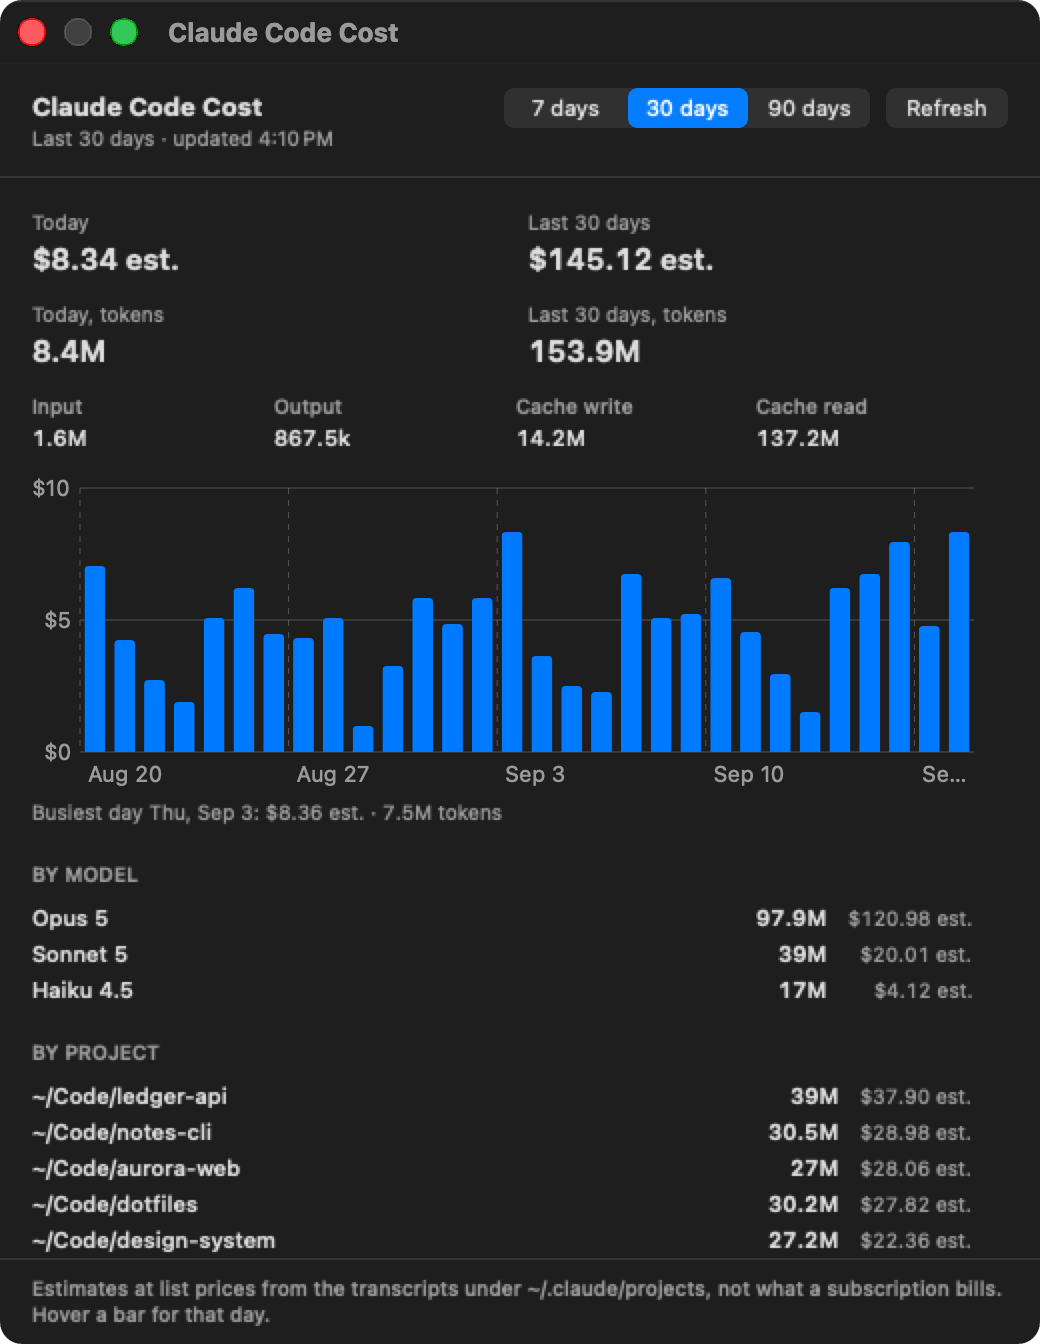
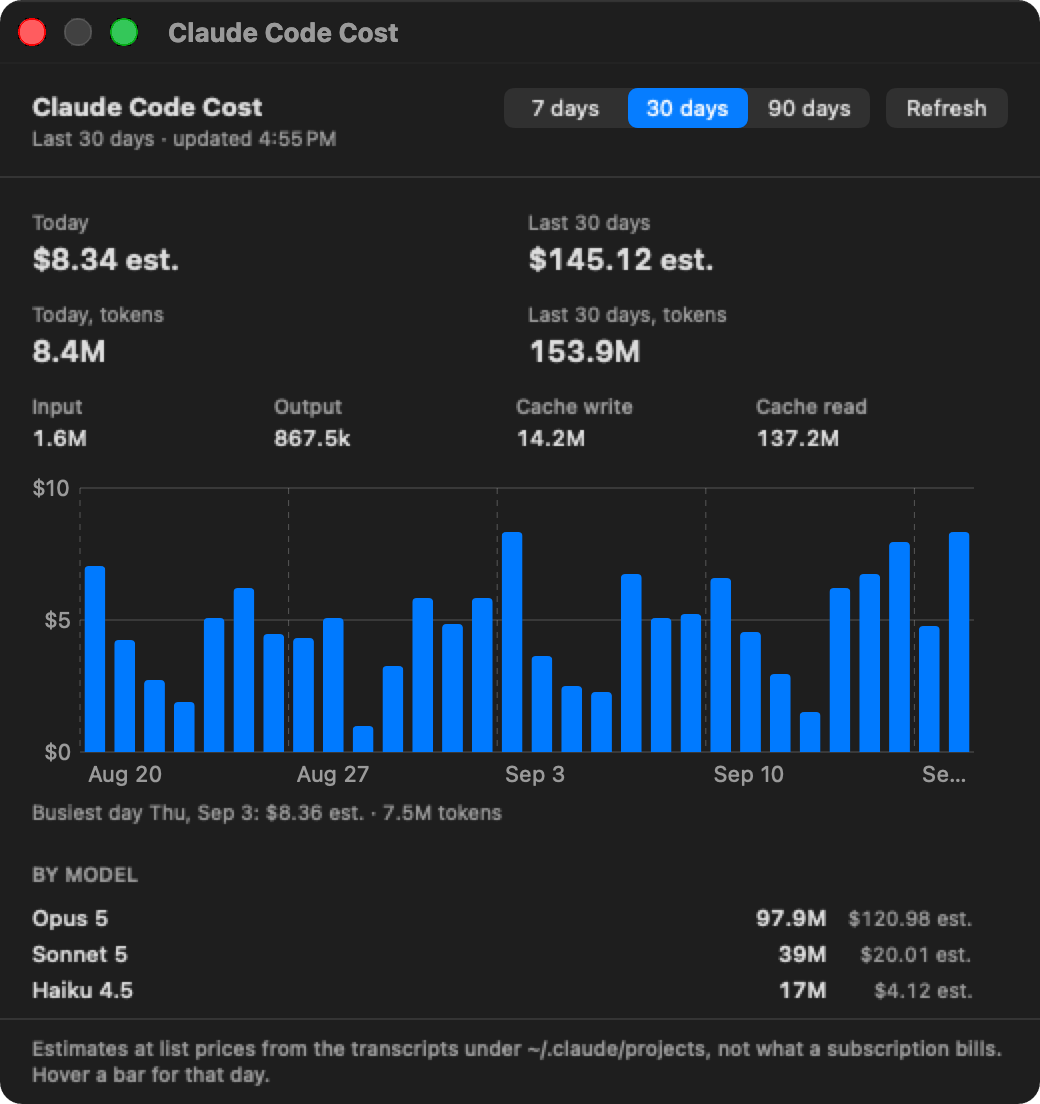
Drop the by-project cost split and show only Claude Code in the README
The Cost window's BY PROJECT rows (one per session folder) added nothing
over the Sessions window, so CostReport, TokenLedger and CostView lose the
folder plumbing; SessionMeta.cwd stays for the Sessions window and the
cache shape is unchanged.

The README now shows the Claude Code surfaces only: the Antigravity tab
draws the same views with its own numbers, so its six screenshots go and
the renderer draws the Claude tab alone.

diff --git a/Sources/AIUsageBar/CostReport.swift b/Sources/AIUsageBar/CostReport.swift
@@ -2,8 +2,7 @@ import Foundation
 
 /// The cost window's numbers, derived from the token records the store holds: one bucket per
 /// calendar day for the chart (empty days included, so the bars line up), the same days summed
-/// per model and per project folder, and today on its own. Every figure is the list-price
-/// estimate the cost rows use.
+/// per model, and today on its own. Every figure is the list-price estimate the cost rows use.
 struct CostReport: Equatable {
     struct Day: Equatable, Identifiable {
         var start: Date
@@ -17,14 +16,6 @@ struct CostReport: Equatable {
         var id: String { model }
     }
 
-    /// One folder's share: the working directory of every session that ran there. `folder` is
-    /// nil for records whose session the ledger cannot place (a transcript with no cwd line).
-    struct ProjectShare: Equatable, Identifiable {
-        var folder: String?
-        var totals: TokenTotals
-        var id: String { folder ?? "" }
-    }
-
     /// Calendar days the popover's cost row and the default report cover, today included.
     static let dayCount = 30
 
@@ -32,24 +23,19 @@ struct CostReport: Equatable {
     var days: [Day]
     /// Costliest first; models the price table does not know sort by tokens after the priced ones.
     var models: [ModelShare]
-    /// Costliest first, same tie-breaks as `models`; empty when the ledger has no folders to offer.
-    var projects: [ProjectShare]
     var today: TokenTotals
     /// Every day in `days` summed.
     var total: TokenTotals
 
     var start: Date { days.first?.start ?? .distantPast }
 
-    /// `folders` maps a session id to the folder it ran in; nil (the Antigravity ledger) leaves
-    /// `projects` empty, while a session missing from the map lands in the nil-folder share.
     static func build(_ records: [TokenRecord], now: Date = Date(), calendar: Calendar = .current,
-                      dayCount: Int = CostReport.dayCount, folders: [String: String]? = nil) -> CostReport
+                      dayCount: Int = CostReport.dayCount) -> CostReport
     {
         let todayStart = calendar.startOfDay(for: now)
         let starts = (0..<dayCount).reversed().compactMap { calendar.date(byAdding: .day, value: -$0, to: todayStart) }
         var byDay: [Date: TokenTotals] = [:]
         var byModel: [String: TokenTotals] = [:]
-        var byFolder: [String?: TokenTotals] = [:]
         var today = TokenTotals()
         var total = TokenTotals()
 
@@ -59,9 +45,6 @@ struct CostReport: Equatable {
             guard let first = starts.first, day >= first, day <= todayStart else { continue }
             byDay[day, default: TokenTotals()].add(record)
             byModel[record.model, default: TokenTotals()].add(record)
-            if let folders {
-                byFolder[record.sessionId.flatMap { folders[$0] }, default: TokenTotals()].add(record)
-            }
             total.add(record)
             if day == todayStart { today.add(record) }
         }
@@ -69,13 +52,8 @@ struct CostReport: Equatable {
         let models = byModel.map { ModelShare(model: $0.key, totals: $0.value) }.sorted { a, b in
             rank(a.totals, a.model, before: b.totals, b.model)
         }
-        // A nil folder names nothing, so it sorts last among equals.
-        let projects = byFolder.map { ProjectShare(folder: $0.key, totals: $0.value) }.sorted { a, b in
-            rank(a.totals, a.folder ?? "\u{10FFFF}", before: b.totals, b.folder ?? "\u{10FFFF}")
-        }
         return CostReport(days: starts.map { Day(start: $0, totals: byDay[$0] ?? TokenTotals()) },
                           models: models,
-                          projects: projects,
                           today: today,
                           total: total)
     }

diff --git a/Tests/AIUsageBarTests/AIUsageBarTests.swift b/Tests/AIUsageBarTests/AIUsageBarTests.swift
@@ -1587,7 +1587,6 @@ final class CostReportTests: XCTestCase {
         let report = CostReport.build([], now: now, calendar: utc)
         XCTAssertEqual(report.days.count, 30)
         XCTAssertTrue(report.models.isEmpty)
-        XCTAssertTrue(report.projects.isEmpty)
         XCTAssertEqual(report.total, TokenTotals())
         XCTAssertEqual(report.today, TokenTotals())
     }
@@ -1612,34 +1611,6 @@ final class CostReportTests: XCTestCase {
         XCTAssertEqual(TokenStore.retention, 91 * 86400)
         XCTAssertEqual(CostRange.allCases.map(\.axisStride), [1, 7, 14])
         XCTAssertEqual(CostRange.quarter.title, "90 days")
-    }
-
-    func testProjectsGroupBySessionFolderCostliestFirst() {
-        let records = [
-            record(1, model: "claude-opus-5", session: "a"),      // $0.0075 in ~/x
-            record(2, model: "claude-sonnet-5", session: "a"),    // $0.003 in ~/x
-            record(1, model: "claude-sonnet-5", session: "b"),    // $0.003 in ~/y
-            record(1, model: "claude-sonnet-5", session: "c"),    // $0.003, session without a cwd
-            record(1, model: "claude-sonnet-5", session: nil),    // $0.003, no session at all
-            record(1, model: "claude-sonnet-5", session: "d"),    // $0.003 in ~/y again
-            record(40, model: "claude-opus-5", session: "b"),     // outside the window
-        ]
-        let folders = ["a": "/Users/sam/x", "b": "/Users/sam/y", "d": "/Users/sam/y"]
-        let report = CostReport.build(records, now: now, calendar: utc, folders: folders)
-        XCTAssertEqual(report.projects.map(\.folder), ["/Users/sam/x", "/Users/sam/y", nil])
-        XCTAssertEqual(report.projects.map(\.totals.tokens), [2200, 2200, 2200])
-        XCTAssertEqual(report.projects[0].totals.cost, 0.0105, accuracy: 1e-9)
-        XCTAssertEqual(report.projects[1].totals.cost, 0.006, accuracy: 1e-9)
-        XCTAssertEqual(report.projects.reduce(0) { $0 + $1.totals.tokens }, report.total.tokens)
-        XCTAssertEqual(report.projects.map(\.id), ["/Users/sam/x", "/Users/sam/y", ""])
-    }
-
-    func testProjectsStayEmptyWithoutFolders() {
-        let report = CostReport.build([record(0, session: "a"), record(1)], now: now, calendar: utc)
-        XCTAssertTrue(report.projects.isEmpty)
-        XCTAssertEqual(report.total.tokens, 2200)
-        XCTAssertEqual(CostReport.build([record(0, session: "a")], now: now, calendar: utc, folders: [:])
-                           .projects.map(\.folder), [nil])
     }
 
     func testShareText() {
@@ -1723,22 +1694,6 @@ final class SessionScanTests: XCTestCase {
         XCTAssertEqual(sessions.map(\.sessionId), ["a"])
         XCTAssertEqual(sessions[0].lastPrompt?.count, 121)
         XCTAssertTrue(sessions[0].lastPrompt!.hasSuffix("…"))
-    }
-
-    @MainActor func testStoreOffersSessionFoldersToTheCostReport() async throws {
-        let root = try tempTranscriptRoot()
-        try writeTranscript(root, "p/a.jsonl",
-            assistantLine(id: "msg_a1", in: 10, out: 10, session: "a", cwd: "/Users/sam/x")
-            + assistantLine(id: "msg_a2", in: 20, out: 20, session: "a"))
-        try writeTranscript(root, "p/b.jsonl", assistantLine(id: "msg_b1", in: 1, out: 1, session: "b", cwd: nil))
-        let store = TokenStore()
-        store.scanner = TokenScanner(root: root, cacheURL: nil)
-        await store.refresh(reason: "test")
-        XCTAssertEqual(store.sessionFolders, ["a": "/Users/sam/x"])
-        let report = store.costReport(range: .week)
-        XCTAssertEqual(report.days.count, 7)
-        XCTAssertEqual(report.projects.map(\.folder), ["/Users/sam/x", nil])
-        XCTAssertEqual(report.projects.map(\.totals.tokens), [60, 2])
     }
 
     func testSessionMetaSurvivesTheCache() async throws {

diff --git a/Sources/AIUsageBar/Views/CostView.swift b/Sources/AIUsageBar/Views/CostView.swift
@@ -3,8 +3,8 @@ import SwiftUI
 
 /// The cost window: today and the last 7, 30 or 90 days from one ledger (Claude Code's
 /// transcripts or Antigravity's conversations), a bar per day, and the same days split by
-/// model and, for Claude Code, by the folder each session ran in. Hovering a bar puts that
-/// day's numbers under the chart. Every figure is the list-price estimate the popover's cost rows use.
+/// model. Hovering a bar puts that day's numbers under the chart. Every figure is the
+/// list-price estimate the popover's cost rows use.
 struct CostView: View {
     var tokens: any TokenLedger
     var onRefresh: () -> Void
@@ -12,11 +12,7 @@ struct CostView: View {
     @AppStorage(Preferences.Key.costRange) private var range: CostRange = .month
     @State private var now = Date()
     @State private var hovered: Date?
-    @State private var allProjects = false
     private let tick = Timer.publish(every: 60, on: .main, in: .common).autoconnect()
-
-    /// Project rows shown before "Show all" is asked for.
-    static let projectPreview = 8
 
     private var report: CostReport { tokens.costReport(now: now, range: range) }
 
@@ -35,7 +31,6 @@ struct CostView: View {
                         stats(report)
                         chart(report)
                         models(report)
-                        projects(report)
                     }
                     .padding(16)
                 }
@@ -198,32 +193,6 @@ struct CostView: View {
                                  totals: share.totals,
                                  detail: share.model)
                     }
-                }
-            }
-        }
-    }
-
-    // MARK: - projects
-
-    /// The folder each session ran in, costliest first; the first eight, then all on request.
-    @ViewBuilder private func projects(_ report: CostReport) -> some View {
-        if !report.projects.isEmpty {
-            let shown = allProjects ? report.projects : Array(report.projects.prefix(Self.projectPreview))
-            VStack(alignment: .leading, spacing: 8) {
-                Text("BY PROJECT").font(.caption2.weight(.semibold)).foregroundStyle(.secondary)
-                Grid(alignment: .leading, horizontalSpacing: 10, verticalSpacing: 4) {
-                    ForEach(shown) { share in
-                        TokenRow(title: share.folder.map { SessionText.folder($0) } ?? "Unknown folder",
-                                 totals: share.totals,
-                                 detail: share.folder ?? "Sessions whose transcript never said where they ran")
-                    }
-                }
-                if report.projects.count > Self.projectPreview {
-                    Button(allProjects ? "Show fewer" : "Show all \(report.projects.count)") {
-                        allProjects.toggle()
-                    }
-                    .buttonStyle(.link)
-                    .font(.caption)
                 }
             }
         }

diff --git a/Sources/AIUsageBar/Renderer.swift b/Sources/AIUsageBar/Renderer.swift
@@ -72,20 +72,18 @@ enum ScreenshotRenderer {
             written.append(file)
         }
 
-        for tab in UsageTab.allCases {
-            installDefaults(tab: tab)
-            try write(menuBar(stores, tab: tab, clock: fixture.clock, appearance: appearance), "menubar-\(tab.rawValue)")
-            try write(try await popover(stores, appearance: appearance), "popover-\(tab.rawValue)")
-        }
+        // The Antigravity tab draws the same surfaces with its own numbers, so the README shows
+        // Claude Code only.
+        let tab = UsageTab.claude
+        installDefaults(tab: tab)
+        try write(menuBar(stores, tab: tab, clock: fixture.clock, appearance: appearance), "menubar-\(tab.rawValue)")
+        try write(try await popover(stores, appearance: appearance), "popover-\(tab.rawValue)")
         try write(try await window(AnyView(SessionsView(tokens: stores.tokens, onRefresh: {}, onOpened: {})),
                                    title: "Claude Code Sessions", size: NSSize(width: 660, height: 380),
                                    appearance: appearance), "sessions")
         try write(try await window(AnyView(CostView(tokens: stores.tokens, onRefresh: {})),
-                                   title: "\(TokenProduct.claudeCode.name) Cost", size: NSSize(width: 520, height: 640),
+                                   title: "\(TokenProduct.claudeCode.name) Cost", size: NSSize(width: 520, height: 520),
                                    appearance: appearance), "cost-claude")
-        try write(try await window(AnyView(CostView(tokens: stores.antigravityTokens, onRefresh: {})),
-                                   title: "\(TokenProduct.antigravity.name) Cost", size: NSSize(width: 520, height: 520),
-                                   appearance: appearance), "cost-antigravity")
         for file in written { print(file + ".png") }
     }
 
@@ -327,7 +325,7 @@ final class SilentNotifier: Notifier {
 /// naturally whenever they are rendered. Deterministic: the same `now` gives the same picture.
 struct ScreenshotFixture {
     var now: Date
-    /// Folders the sessions "ran in", under the renderer's home so the cost window shows `~/...`.
+    /// Folders the sessions "ran in", under the renderer's home; the Sessions window shows `~/...`.
     var home: String = NSHomeDirectory()
 
     let plan = "max"

diff --git a/Sources/AIUsageBar/TokenLedger.swift b/Sources/AIUsageBar/TokenLedger.swift
@@ -11,9 +11,6 @@ protocol TokenLedger: AnyObject, Observable {
     var records: [TokenRecord] { get }
     var lastScanned: Date? { get }
     var error: String? { get }
-    /// Session id -> the folder that session ran in, for the cost window's By project rows;
-    /// nil when the product has no folders to speak of.
-    var sessionFolders: [String: String]? { get }
     func refresh(reason: String) async
 }
 
@@ -23,7 +20,7 @@ extension TokenLedger {
     }
 
     func costReport(now: Date = Date(), range: CostRange = .month) -> CostReport {
-        CostReport.build(records, now: now, dayCount: range.days, folders: sessionFolders)
+        CostReport.build(records, now: now, dayCount: range.days)
     }
 }
 

diff --git a/Tests/AIUsageBarTests/RendererTests.swift b/Tests/AIUsageBarTests/RendererTests.swift
@@ -54,10 +54,6 @@ final class RendererTests: XCTestCase {
             XCTAssertNotNil(folder, "record \(record.timestamp) has no session folder")
             XCTAssertTrue(folder?.hasPrefix("/Users/someone/Code/") ?? false)
         }
-        // So the cost window's BY PROJECT list has no "Unknown folder" row.
-        let report = CostReport.build(f.claudeRecords, now: now, folders: folders.compactMapValues { $0 })
-        XCTAssertEqual(report.projects.count, ScreenshotFixture.projects.count)
-        XCTAssertFalse(report.projects.contains { $0.folder == nil })
     }
 
     @MainActor func testRecordsStayInsideTheChartWindow() {

diff --git a/Sources/AIUsageBar/Views/PopoverView.swift b/Sources/AIUsageBar/Views/PopoverView.swift
@@ -199,7 +199,7 @@ struct PopoverView: View {
         }
         .buttonStyle(.plain)
         .accessibilityLabel("Cost")
-        .help("Open a window with a bar per day for the last 7, 30 or 90 days and the split by model and project")
+        .help("Open a window with a bar per day for the last 7, 30 or 90 days and the split by model")
     }
 
     /// One line that opens the sessions window; the counts come from Claude Code's session registry.

diff --git a/Sources/AIUsageBar/AntigravityTokenStore.swift b/Sources/AIUsageBar/AntigravityTokenStore.swift
@@ -9,8 +9,6 @@ final class AntigravityTokenStore: TokenLedger {
     private(set) var records: [TokenRecord] = []
     private(set) var lastScanned: Date?
     private(set) var error: String?
-    /// Antigravity conversations are not tied to a folder, so the cost window shows no projects.
-    let sessionFolders: [String: String]? = nil
 
     var scanner = AntigravityTokenScanner()
 

diff --git a/Sources/AIUsageBar/TokenStore.swift b/Sources/AIUsageBar/TokenStore.swift
@@ -77,9 +77,6 @@ final class TokenStore: TokenLedger {
             ?? calendar.startOfDay(for: now)
     }
 
-    /// Every retained session that said where it ran.
-    var sessionFolders: [String: String]? { sessions.compactMapValues(\.cwd) }
-
     var openCount: Int { live.count }
     var busyCount: Int { live.filter(\.isBusy).count }
 

diff --git a/README.md b/README.md
@@ -2,22 +2,18 @@
 
 [![CI](https://github.com/DragonF1/AIUsageBar/actions/workflows/ci.yml/badge.svg)](https://github.com/DragonF1/AIUsageBar/actions/workflows/ci.yml)
 
-macOS menu bar app showing your Claude subscription usage (5-hour session, weekly, per-model) with colored progress bars, plus the Anthropic status page incident banner. A second tab shows Google Antigravity's four limits the same way: weekly and five-hour for the Gemini models, weekly and five-hour for the Claude and GPT models, with the same kind of banner fed by Google Cloud's status dashboard. Refreshes every 5 minutes. The menu bar follows the selected tab: `5h% / weekly%` next to the Claude starburst, or the Gemini group's `5h% / weekly%` next to the Antigravity arch, with the icon colored by whichever bar is closer to its cap (or by the window you pick). Both tabs also count the tokens the product spent on this Mac (today, this week, last 30 days, with a list-price estimate) from its local files, and open a cost window with a daily chart over 7, 30 or 90 days and a split by model and, for Claude Code, by project folder. Every row carries a pace forecast, and macOS notifications warn when a window passes a threshold, runs out, is on a pace to run out, or resets after a warning.
+macOS menu bar app showing your Claude subscription usage (5-hour session, weekly, per-model) with colored progress bars, plus the Anthropic status page incident banner. A second tab shows Google Antigravity's four limits the same way: weekly and five-hour for the Gemini models, weekly and five-hour for the Claude and GPT models, with the same kind of banner fed by Google Cloud's status dashboard. Refreshes every 5 minutes. The menu bar follows the selected tab: `5h% / weekly%` next to the Claude starburst, or the Gemini group's `5h% / weekly%` next to the Antigravity arch, with the icon colored by whichever bar is closer to its cap (or by the window you pick). Both tabs also count the tokens the product spent on this Mac (today, this week, last 30 days, with a list-price estimate) from its local files, and open a cost window with a daily chart over 7, 30 or 90 days and a split by model. Every row carries a pace forecast, and macOS notifications warn when a window passes a threshold, runs out, is on a pace to run out, or resets after a warning.
 
 No cookie scraping. It reads the OAuth token Claude Code already keeps in your Keychain and asks Anthropic's usage endpoint directly, the same data `claude /usage` shows.
 
 ## Screenshots
 
-The menu bar item on either tab, and the popover behind it:
+The menu bar item and the popover behind it (the Antigravity tab draws the same surfaces with its own numbers):
 
 <p>
 <picture>
   <source media="(prefers-color-scheme: dark)" srcset="docs/screenshots/menubar-claude-dark.png">
   <img src="docs/screenshots/menubar-claude-light.png" width="310" alt="Menu bar with the Claude starburst, 34% / 58%">
-</picture>
-<picture>
-  <source media="(prefers-color-scheme: dark)" srcset="docs/screenshots/menubar-antigravity-dark.png">
-  <img src="docs/screenshots/menubar-antigravity-light.png" width="310" alt="Menu bar with the Antigravity arch, 12% / 31%">
 </picture>
 </p>
 <p>
@@ -25,13 +21,9 @@ The menu bar item on either tab, and the popover behind it:
   <source media="(prefers-color-scheme: dark)" srcset="docs/screenshots/popover-claude-dark.png">
   <img src="docs/screenshots/popover-claude-light.png" width="300" alt="Claude Code tab: 5-hour, weekly and Opus bars with pace lines, extra usage, cost rows, sessions, status card">
 </picture>
-<picture>
-  <source media="(prefers-color-scheme: dark)" srcset="docs/screenshots/popover-antigravity-dark.png">
-  <img src="docs/screenshots/popover-antigravity-light.png" width="300" alt="Antigravity tab: Gemini and Claude/GPT weekly and 5-hour bars, cost rows, Google Cloud status card">
-</picture>
 </p>
 
-The sessions window and the two cost windows:
+The sessions window and the cost window:
 
 <p>
 <picture>
@@ -42,11 +34,7 @@ The sessions window and the two cost windows:
 <p>
 <picture>
   <source media="(prefers-color-scheme: dark)" srcset="docs/screenshots/cost-claude-dark.png">
-  <img src="docs/screenshots/cost-claude-light.png" width="520" alt="Claude Code Cost window: 30-day bar chart, totals, by model, by project">
-</picture>
-<picture>
-  <source media="(prefers-color-scheme: dark)" srcset="docs/screenshots/cost-antigravity-dark.png">
-  <img src="docs/screenshots/cost-antigravity-light.png" width="520" alt="Antigravity Cost window: 30-day bar chart, totals, by model">
+  <img src="docs/screenshots/cost-claude-light.png" width="520" alt="Claude Code Cost window: 30-day bar chart, totals, by model">
 </picture>
 </p>
 
@@ -140,7 +128,7 @@ A "Cost" section under the usage bars on the Claude tab: three single-line rows,
 
 ## Cost window
 
-The "Cost" header on either tab opens a separate window for that product with the last 7, 30 or 90 days (a segmented picker in the header, remembered between opens, 30 by default): today's cost and tokens, the range's cost and tokens, the range's tokens by kind (input, output, cache write, cache read; hover one for its share), a bar per calendar day (hover a bar for that day's cost and tokens; the line under the chart otherwise names the busiest day), the same days split by model, costliest first, and on the Claude Code window the same days split by project, meaning the folder each session ran in (the first eight, then "Show all"; hover a row for the full path). Every figure is the list-price estimate the popover rows use. Esc or ⌘W closes it; it refreshes every 15 s while open. The Claude Code and Antigravity windows are separate and remember their own positions.
+The "Cost" header on either tab opens a separate window for that product with the last 7, 30 or 90 days (a segmented picker in the header, remembered between opens, 30 by default): today's cost and tokens, the range's cost and tokens, the range's tokens by kind (input, output, cache write, cache read; hover one for its share), a bar per calendar day (hover a bar for that day's cost and tokens; the line under the chart otherwise names the busiest day), the same days split by model, costliest first. Every figure is the list-price estimate the popover rows use. Esc or ⌘W closes it; it refreshes every 15 s while open. The Claude Code and Antigravity windows are separate and remember their own positions.
 
 ## Sessions window
 
